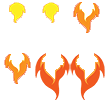
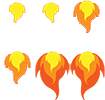
Fixed the engine sprite demo.

diff --git a/engine.tsx b/engine.tsx
@@ -8,8 +8,8 @@
    <property name="posy" type="int" value="80"/>
   </properties>
   <animation>
-   <frame tileid="1" duration="100"/>
-   <frame tileid="0" duration="100"/>
+   <frame tileid="1" duration="50"/>
+   <frame tileid="0" duration="50"/>
   </animation>
  </tile>
  <tile id="1">
@@ -26,8 +26,8 @@
    <property name="posy" type="int" value="80"/>
   </properties>
   <animation>
-   <frame tileid="2" duration="100"/>
-   <frame tileid="3" duration="100"/>
+   <frame tileid="2" duration="50"/>
+   <frame tileid="3" duration="50"/>
   </animation>
  </tile>
  <tile id="3">
@@ -51,8 +51,8 @@
    <property name="posy" type="int" value="80"/>
   </properties>
   <animation>
-   <frame tileid="4" duration="100"/>
-   <frame tileid="5" duration="100"/>
+   <frame tileid="4" duration="50"/>
+   <frame tileid="5" duration="50"/>
   </animation>
  </tile>
 </tileset>

diff --git a/starship.py b/starship.py
@@ -2,25 +2,53 @@ import pygame
 from Box2D import *
 import math
 
+def vecMod(v):
+    r = math.sqrt( math.pow(v[0],2) + math.pow(v[1],2))
+    return r
 
 class StarshipEngine(pygame.sprite.Sprite):
     def __init__(self,app):
         self.app = app
         pygame.sprite.Sprite.__init__(self)    
+        
         self.images = []
         self.duration = 0
         self.index = 0
         self.stamp = 0
-    def update_local(self):
+        self.timer = 0
 
+    def update_local(self):
         time_delta = self.app.clock.get_time()
-        if self.stamp + time_delta  > self.duration:
-            self.index += 1
-            if self.index >= len(self.images):
+
+        if (self.stamp + time_delta)  > self.duration:
+        
+            if self.timer == 0:
                 self.index = 0
-            del self.image
-            self.image = self.images[self.index].copy()
-            self.stamp = 0
+                self.stamp = 0
+                self.image = self.images[self.index].copy()
+
+            else:
+                
+                secs = self.timer / 1000
+                max_images = 0
+
+                if secs > 0.0 and secs < 1.5:
+                    max_images = 2
+                if secs >= 1.5 and secs < 2.0:
+                    max_images = 4
+                if secs >= 2.0:
+                    max_images = len(self.images)-1
+
+                #del self.image
+                self.image = self.images[self.index].copy()
+                self.stamp = 0
+
+                if self.index > max_images or self.index == len(self.images)-1:
+                    self.index = 1
+                else:
+                    self.index += 1
+
+
         else:
             self.stamp += time_delta
         
@@ -31,7 +59,7 @@ class Starship(pygame.sprite.Sprite):
     def __init__(self, app):
         self.app = app
         pygame.sprite.Sprite.__init__(self)
- 
+        
         self.loadFromMap()
 
         #define the Physics body
@@ -49,7 +77,6 @@ class Starship(pygame.sprite.Sprite):
         enginerect = self.engine.image.get_rect()
 
         offset = enginerect.height
-
         
         self.image_tmp = pygame.Surface( ( myrect.width, myrect.height+enginerect.height+offset), pygame.SRCALPHA| pygame.HWSURFACE )
         self.topleft = myrect.topleft
@@ -58,21 +85,12 @@ class Starship(pygame.sprite.Sprite):
         pos = b2Vec2(myrect.midbottom) - b2Vec2(enginerect.width/2,0 ) + b2Vec2(0, offset)
         self.image_tmp.blit( self.engine.image, pos, enginerect )
 
+        #print(self.body.linearVelocity, self.body.angularVelocity, self.body.linearVelocity.length)
         x, y = self.app.physics.ToPixels(self.body.transform.position)
         r = self.body.transform.angle
         self.image, self.rect = self.rot_center(self.image_tmp, math.degrees(r))
-       
-        
-        # if x>Config.screen_size[0]-50:
-        #     print(x)
-        #     x = Config.screen_size[0]-50
-        # if y>Config.screen_size[1]-50:
-        #     print(y)
-        #     y = Config.screen_size[1]-50
-         
-
+   
         self.rect.center = (x,y)
-        #self.move_from_center((x,y))
         self.engine.update_local()
         
     def rot_center(self,image, angle):
@@ -99,13 +117,17 @@ class Starship(pygame.sprite.Sprite):
                 for animation_frame in props['frames']:
                     image = self.app.wmap.tmx.get_tile_image_by_gid(gid)
                     
-                    self.engine.images.append(image)
+                    self.engine.images.append(image.copy())
                     self.engine.duration = animation_frame.duration 
                     self.engine.rect = image.get_rect()
                     print("adding animation frame %d" % gid)
 
-                self.engine.image = self.engine.images[0].copy()
-
+   
+        empty = pygame.Surface(self.engine.images[0].get_rect().size, pygame.SRCALPHA| pygame.HWSURFACE )
+        empty.fill((0,0,0,0)) # RGBALPHA
+        self.engine.images = [ empty ] + self.engine.images
+        self.engine.image = self.engine.images[0].copy()
+        self.index = 0
 
 
 

diff --git a/gamebase.py b/gamebase.py
@@ -293,6 +293,20 @@ class pyGameAppPhysics(pyGameApp):
                     pygame.draw.polygon(surface, color, vertices,1)
     
 
+
+
+
+
+
+
+
+
+
+
+
+
+
+
 #
 # This implementation LOADS a map and scrolls fine.
 # 
@@ -391,13 +405,16 @@ class pyGameAppPhysicsMap(pyGameAppPhysics):
             # debug the objects
 
         if pressed[pygame.K_q]:
-  
+            self.starship.engine.timer += self.clock.get_time()
+            
             impulse = self.starship.body.mass * 14 # 9.8 means don' climb, just anulate the gravity.
             angle =  self.starship.body.angle + math.pi/2
             y = math.sin(angle)*impulse
             x = math.cos(angle)*impulse
             self.starship.body.ApplyForce( (x,y), self.starship.body.worldCenter, wake=True )
-        
+        else:
+            self.starship.engine.timer = 0
+
         if pressed[pygame.K_o]:
             impulse = self.starship.body.mass * 14
             self.starship.body.ApplyTorque(impulse, wake=True)
